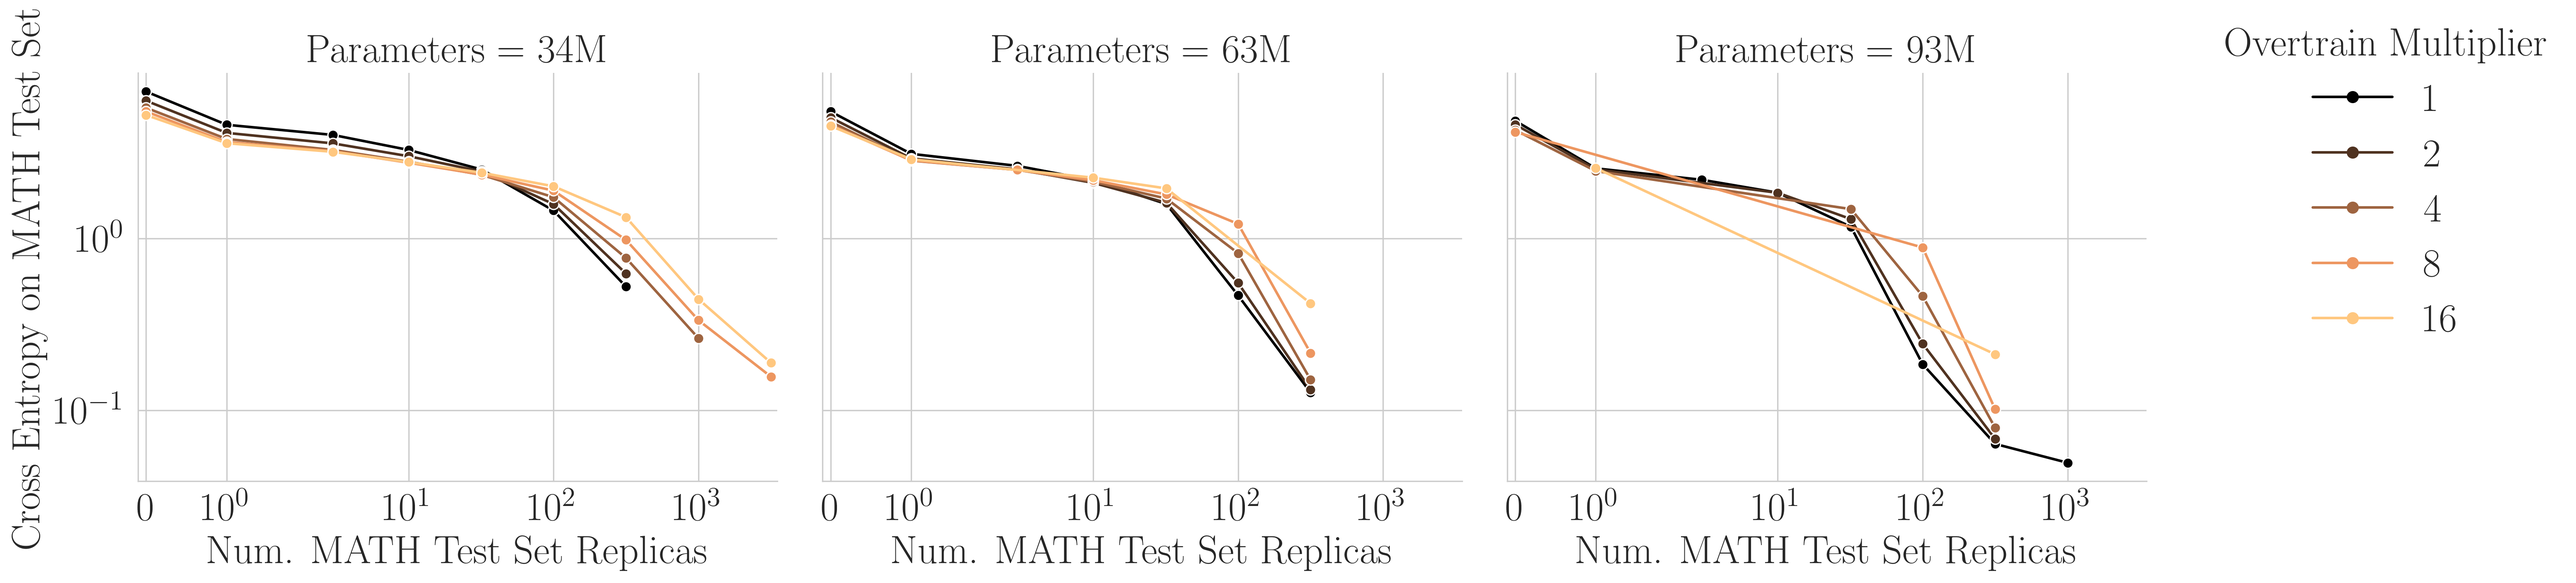
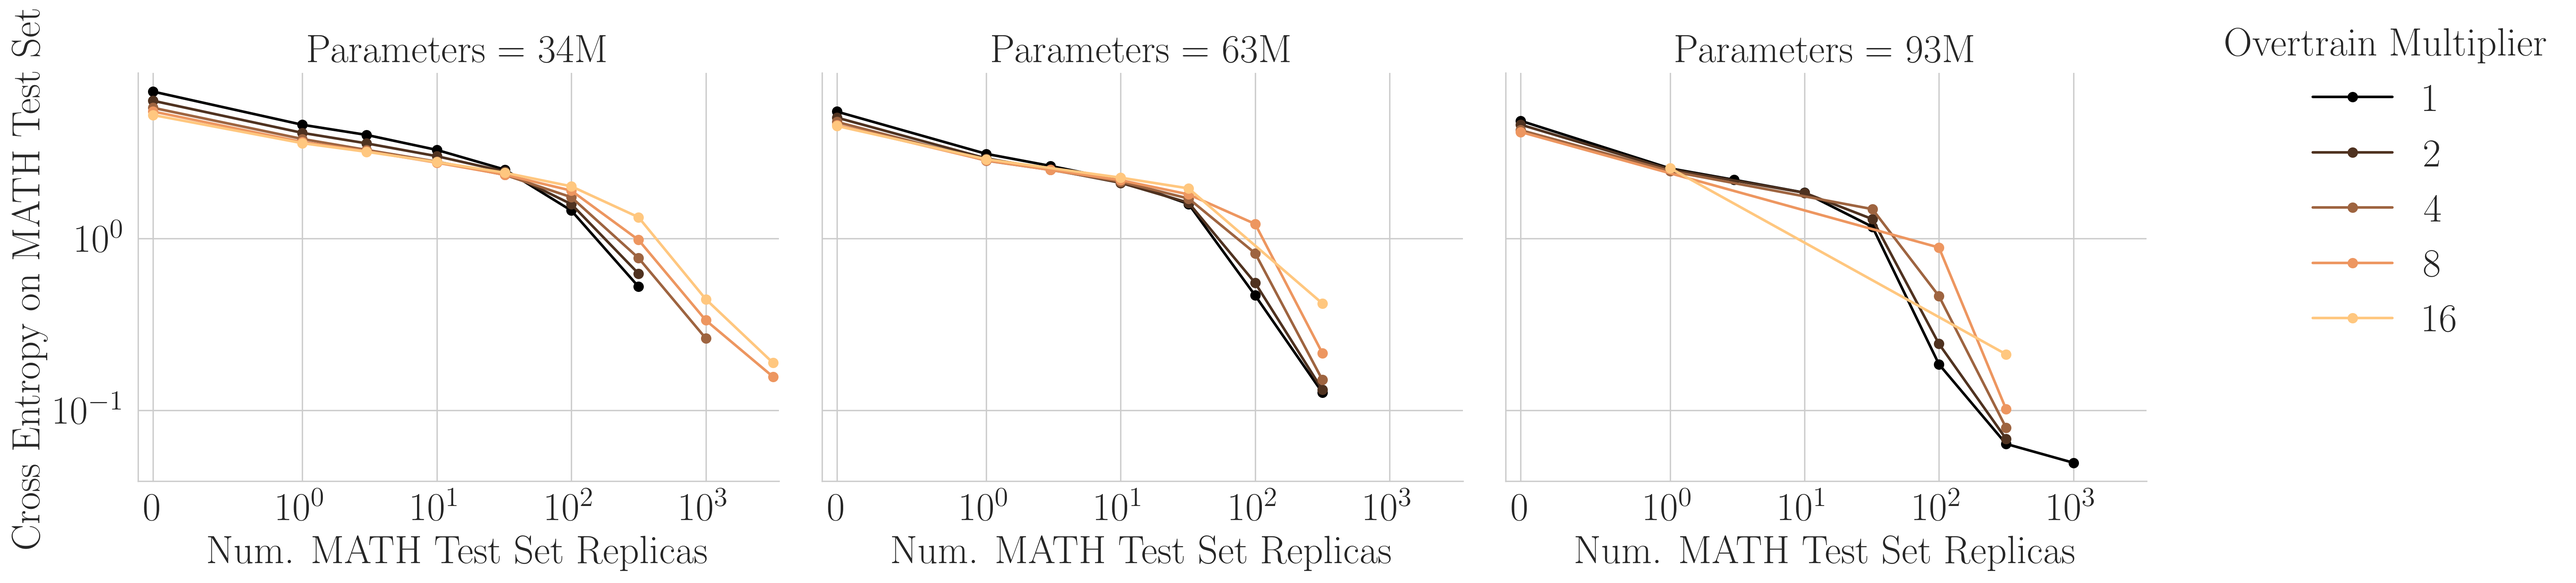
Slightly edited one figure.

diff --git a/notebooks/10_gen_eval_math_qwen3_pt_losses/10_gen_eval_math_qwen3_pt_losses.py b/notebooks/10_gen_eval_math_qwen3_pt_losses/10_gen_eval_math_qwen3_pt_losses.py
@@ -306,19 +306,23 @@ g = sns.relplot(
     col_wrap=3,
     facet_kws={"sharex": False},
     marker="o",
+    markeredgecolor="none",
 )
 g.set(
-    xscale="symlog",
-    xlim=(-0.1, 3500),
+    # xscale="symlog",
+    # xlim=(-0.1, 3500),
     yscale="log",
     ylabel="Cross Entropy on MATH Test Set",
 )
+for ax in g.axes.flat:
+    ax.set_xscale("symlog", linthresh=1e0)  # or smaller
+    ax.set_xlim(-1e-1, 3500)
 sns.move_legend(g, "upper left", bbox_to_anchor=(1, 1))
 src.plot.save_plot_with_multiple_extensions(
     plot_dir=results_dir,
     plot_filename="y=loss_x=num_replicas_hue=ot_col=params",
 )
-plt.show()
+# plt.show()
 
 
 # Subsample runs with Overtrain Multiplier == 1.0.
